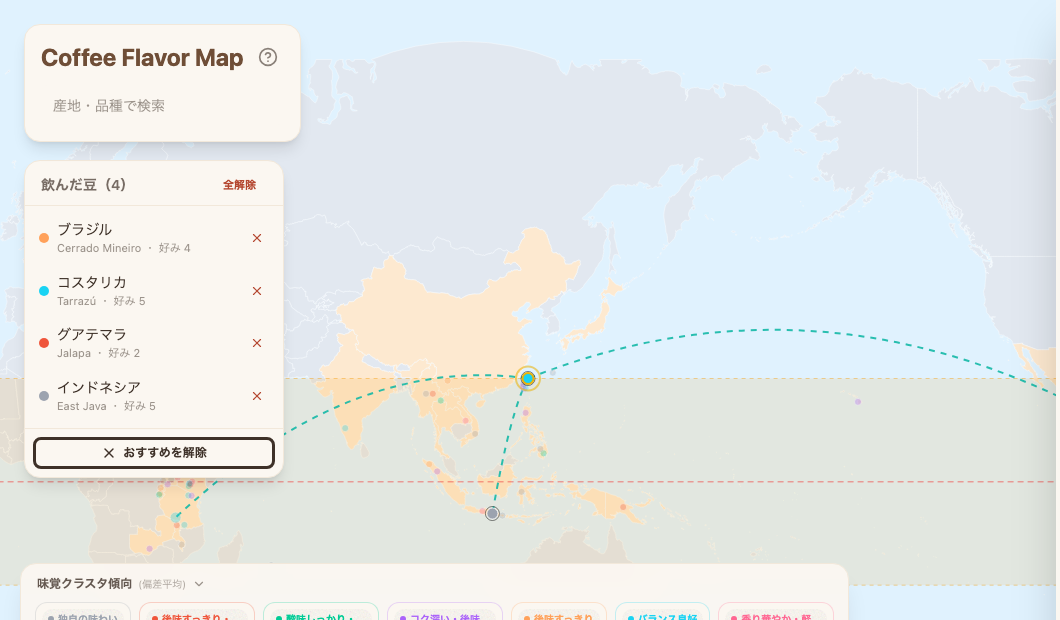
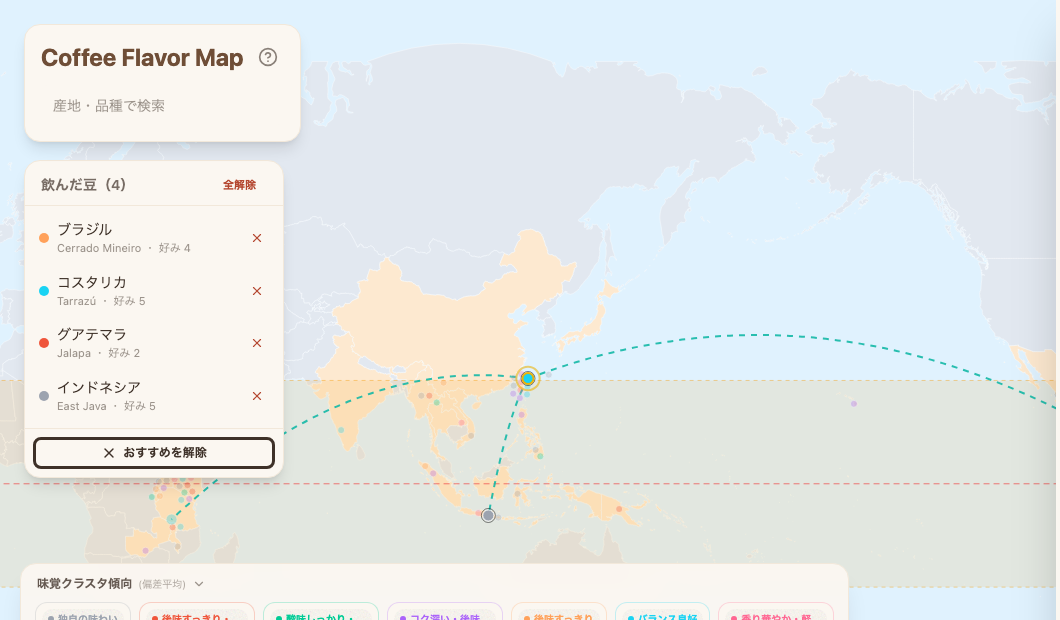
重なり除去追加

diff --git a/src/components/WorldMap.jsx b/src/components/WorldMap.jsx
@@ -1,3 +1,4 @@
+import { forceCollide, forceSimulation, forceX, forceY } from "d3-force";
 import * as d3geo from "d3-geo";
 import { select } from "d3-selection";
 import { MapPin } from "lucide-react";
@@ -12,8 +13,14 @@ import { translateCountry } from "../lib/countryNames";
 
 import MapLegend from "./MapLegend";
 
-// 点の基本半径(px, ズーム率1のとき)。
+// 点の基本半径(px, ズーム率1のとき)。重なり除去の衝突半径もこれを基準にする。
 const NODE_BASE_R = 3.5;
+// 重なり除去のパラメータ。
+// バネが産地の実座標へ引き戻し、衝突が点どうしを押し離す。その釣り合いで位置が決まる。
+const LAYOUT_SPRING = 0.3; // 実座標へ引き戻すバネの強さ
+const LAYOUT_COLLIDE_PADDING = 0.5; // 点と点のあいだに空ける余白(px)
+const LAYOUT_COLLIDE_STRENGTH = 0.85;
+const LAYOUT_TICKS = 300; // 収束させるステップ数（アニメーションはさせない）
 
 // TopoJSONのnameとcoffeeDataのcountryをマッピング
 const mapCountryName = (c) => {
@@ -119,17 +126,40 @@ export default function WorldMap({
   const clampRef = useRef({ bounds: worldBounds, width, height });
   clampRef.current = { bounds: worldBounds, width, height };
 
-  // 産地(admin1)の実座標をそのまま投影した位置。
-  // 近い産地どうしは点が重なるが、地理的な位置の正確さを優先する。
+  // 産地(admin1)の実座標を投影し、点が重ならないように押し離した位置。
+  // アンカーは国の中心ではなく産地そのものの座標なので、動くのは重なった分だけで、
+  // 産地の地理的な位置関係は保たれる。
+  // 投影後のpx空間で一度だけ収束させ、その結果をズーム/パン中は使い回す。
+  // (点は変換後のgの中にあり、ズームすると点も一緒に拡大するので、
+  //  等倍で重なりが解けていれば、どのズーム率でも重ならない)
   const nodePositions = useMemo(() => {
-    const positions = new Map();
+    const particles = [];
     coffeeData.forEach((node) => {
       if (node.lng == null || node.lat == null) return;
       const p = projection([node.lng, node.lat]);
       if (!p) return;
-      positions.set(node.id, p);
+      particles.push({
+        id: node.id,
+        anchorX: p[0],
+        anchorY: p[1],
+        x: p[0],
+        y: p[1],
+      });
     });
-    return positions;
+
+    forceSimulation(particles)
+      .force("spring-x", forceX((d) => d.anchorX).strength(LAYOUT_SPRING))
+      .force("spring-y", forceY((d) => d.anchorY).strength(LAYOUT_SPRING))
+      .force(
+        "collide",
+        forceCollide(NODE_BASE_R + LAYOUT_COLLIDE_PADDING).strength(
+          LAYOUT_COLLIDE_STRENGTH,
+        ),
+      )
+      .stop()
+      .tick(LAYOUT_TICKS);
+
+    return new Map(particles.map((p) => [p.id, [p.x, p.y]]));
   }, [projection]);
 
   // ノードのグループ化（検索・フィルタ反映）
